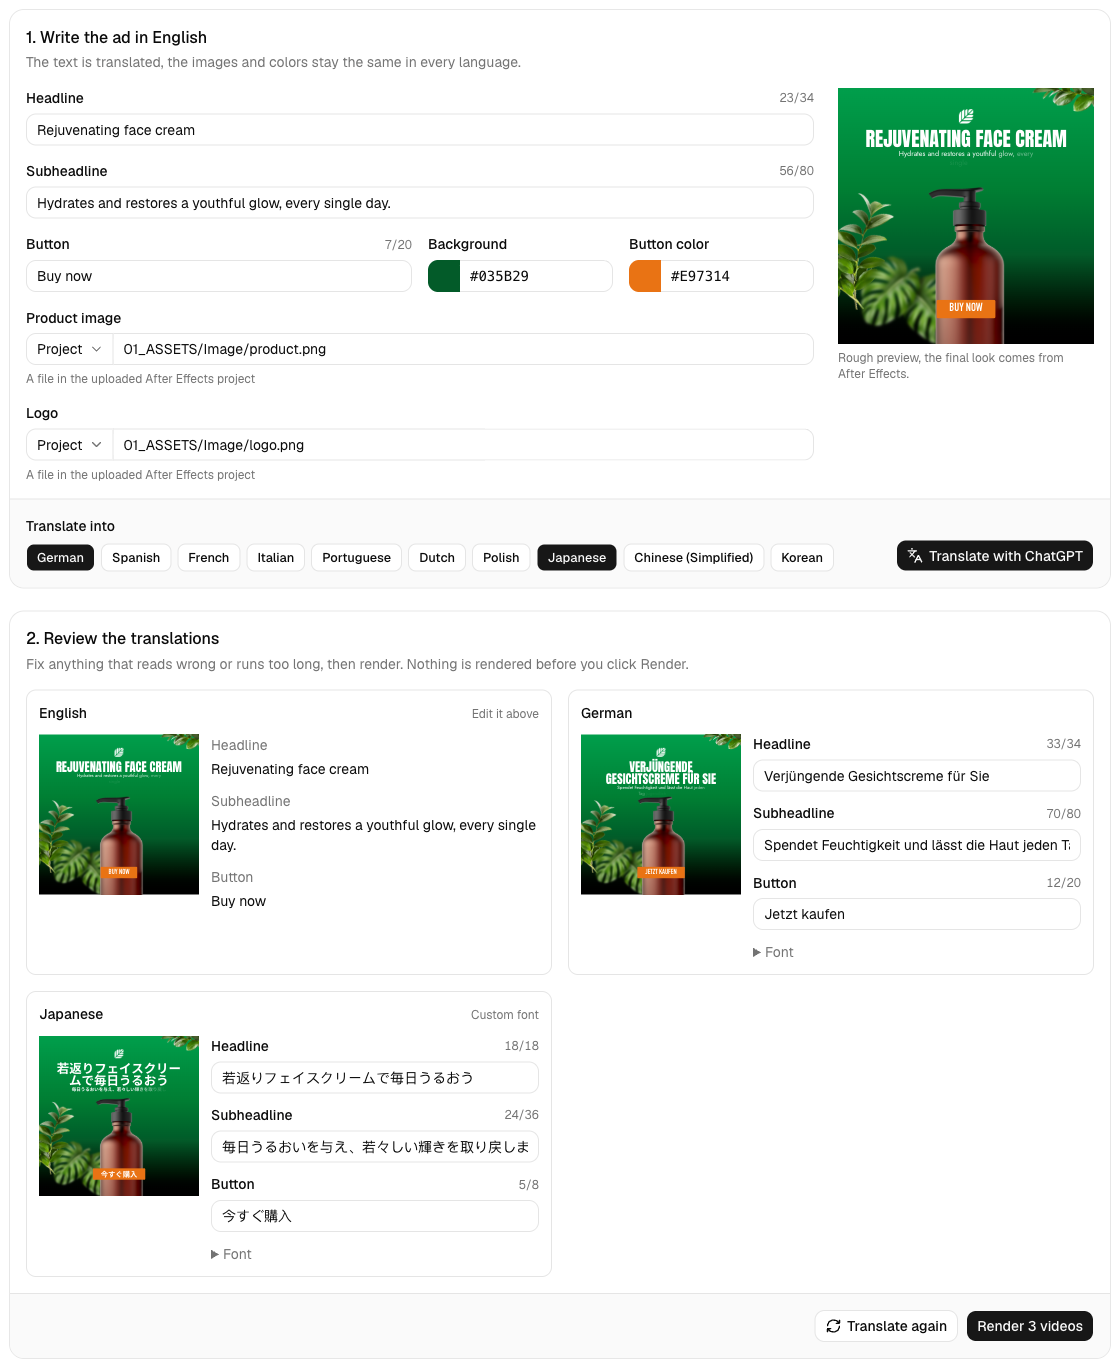
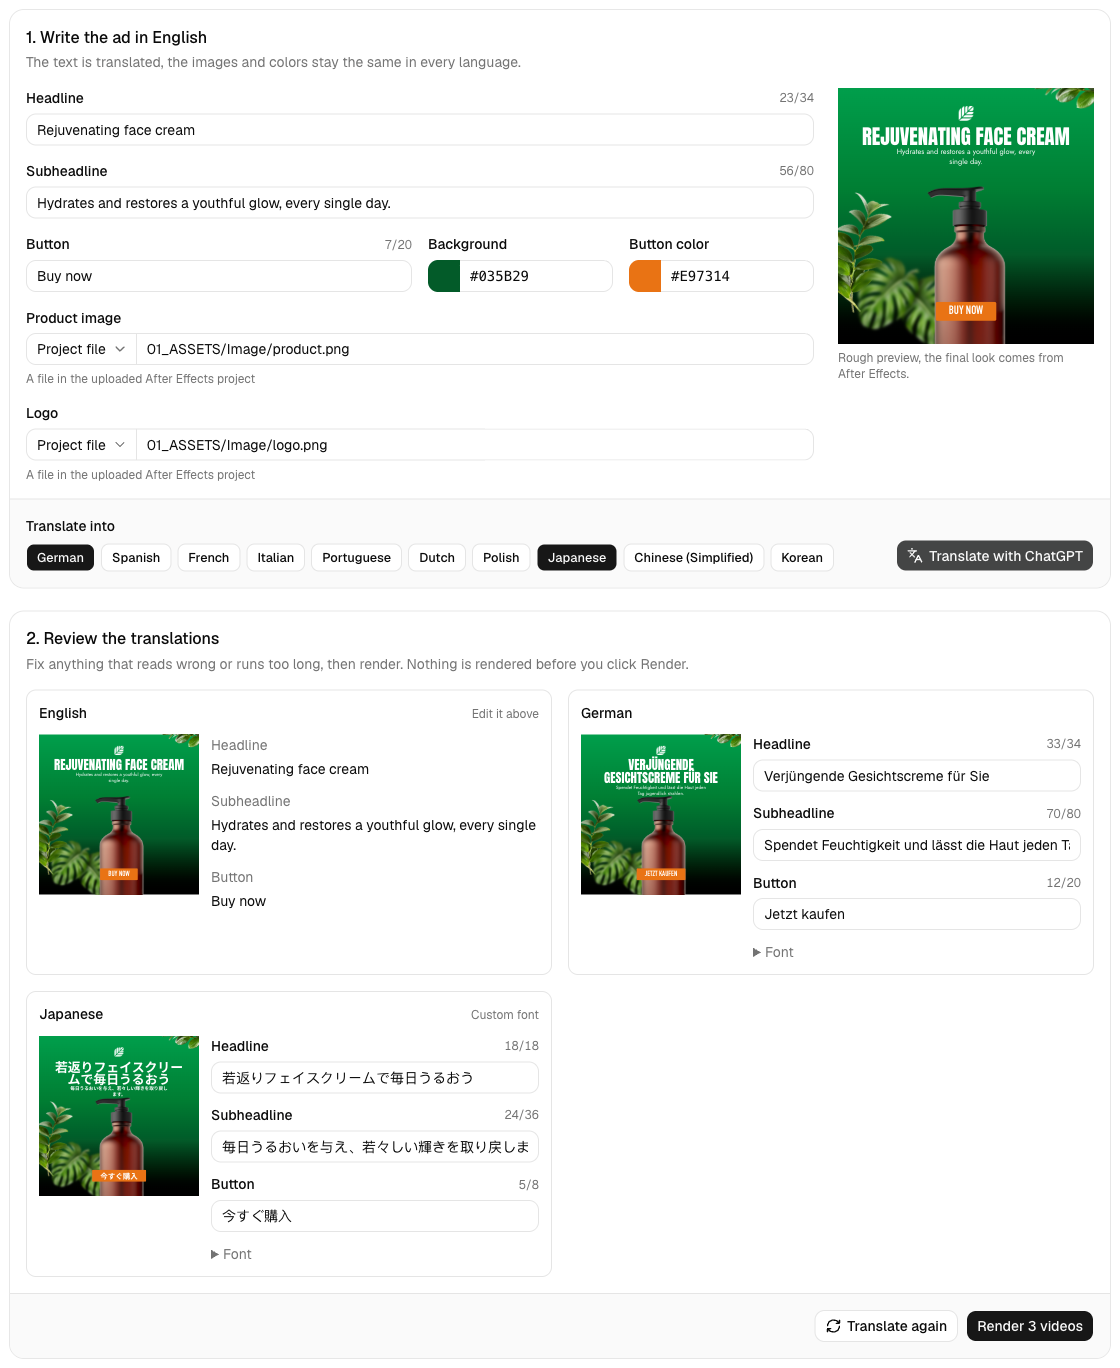
fix(ai-localized-videos): call the image source Project file

diff --git a/plainly-ai-localized-videos/src/components/form-inputs.tsx b/plainly-ai-localized-videos/src/components/form-inputs.tsx
@@ -93,7 +93,7 @@ export function TextInput({
   );
 }
 
-const SOURCES = { project: "Project", url: "URL" };
+const SOURCES = { project: "Project file", url: "URL" };
 
 // An image from the uploaded project or from a URL. The value keeps the
 // (Footage)/ prefix for project files, so the source is not stored separately

diff --git a/plainly-ai-localized-videos/README.md b/plainly-ai-localized-videos/README.md
@@ -85,7 +85,7 @@ A TanStack Start app with two server functions doing the work. The first sends t
 
 ## Usage
 
-Open http://localhost:3000. Write the ad in English and watch the preview next to the form. The product image and logo default to the files inside the uploaded project, so the example works without any URLs. To use your own, switch the source next to the field from **Project** to **URL** and paste an `https://` link. Colors can be picked or typed as `#RRGGBB`. Pick the languages and click **Translate with ChatGPT**.
+Open http://localhost:3000. Write the ad in English and watch the preview next to the form. The product image and logo default to the files inside the uploaded project, so the example works without any URLs. To use your own, switch the source next to the field from **Project file** to **URL** and paste an `https://` link. Colors can be picked or typed as `#RRGGBB`. Pick the languages and click **Translate with ChatGPT**.
 
 Each language gets a card with its own preview and text. Every field counts characters against the limit for that language, and text that is too long turns red and blocks rendering until you shorten it. ChatGPT is asked to stay within the limits but doesn't always manage, so check the counters. Japanese, Chinese and Korean cards come with a font already set, under **Font**.
 
